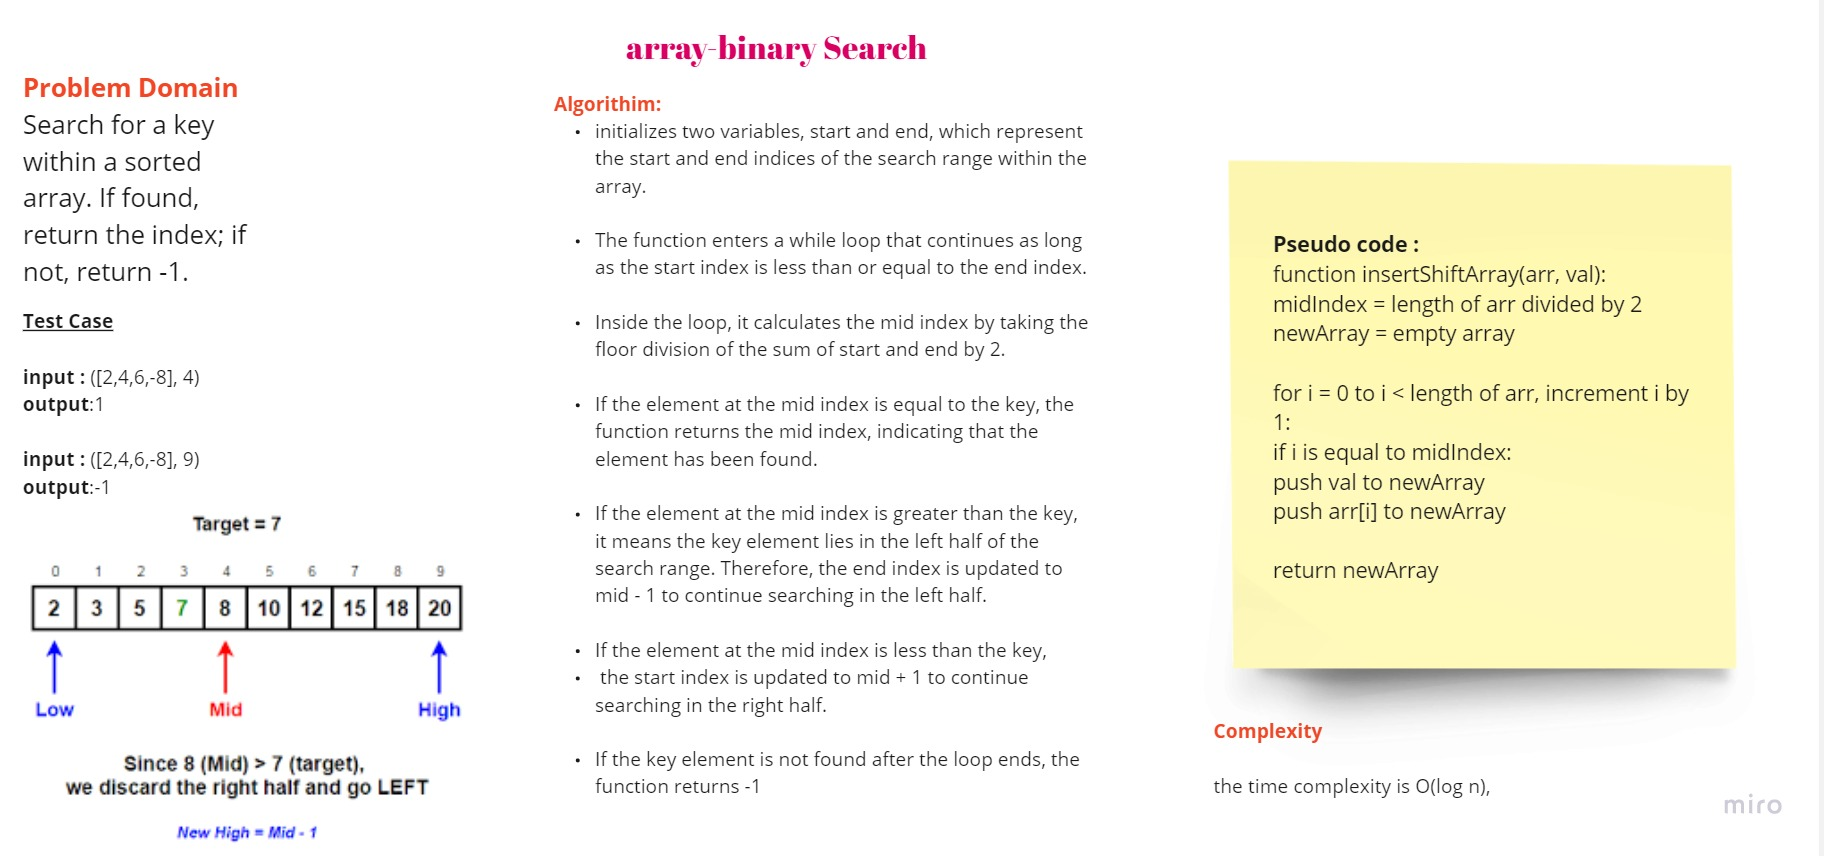
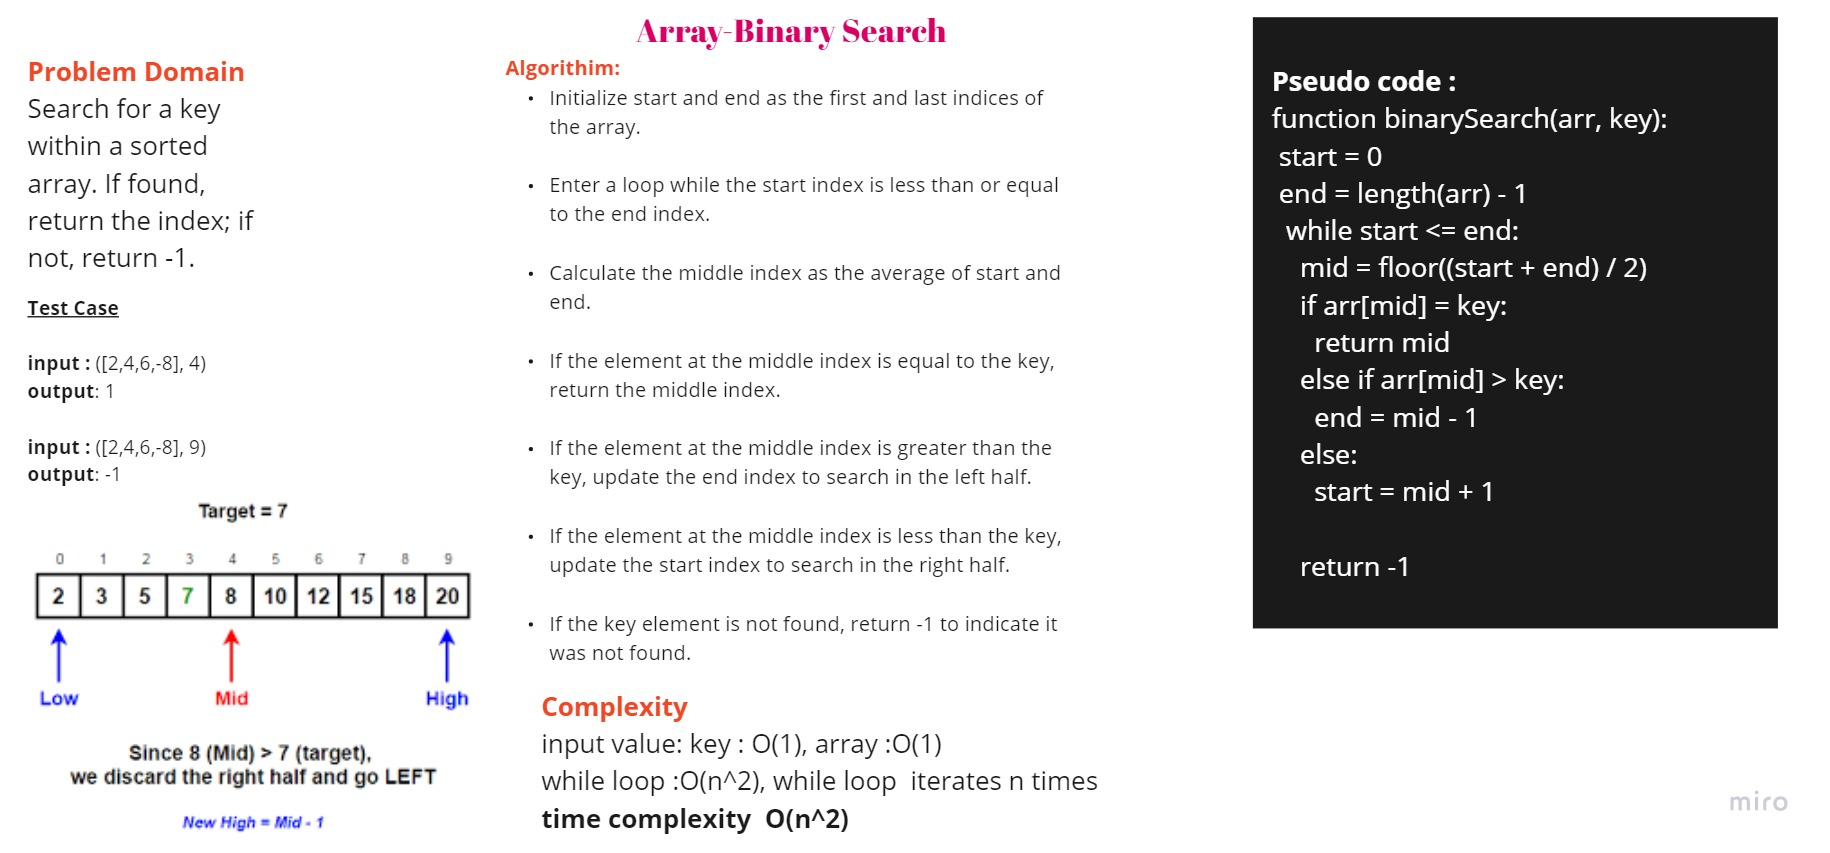
rewrite the algorithim and clculate time complixity

diff --git a/javascript/code-challenges/array-binary-search/readme.md b/javascript/code-challenges/array-binary-search/readme.md
@@ -10,21 +10,19 @@ function called 'BinarySearch' which takes in 2 parameters: a sorted array and t
 
 ## Approach and Efficiency
 
-1- The approach used in this solution is as follows:
-initializes two variables, start and end, which represent the start and end indices of the search range within the array.
+1- Initialize start and end as the first and last indices of the array.
 
-2- The function enters a while loop that continues as long as the start index is less than or equal to the end index.
+2- Enter a loop while the start index is less than or equal to the end index.
 
-3- Inside the loop, it calculates the mid index by taking the floor division of the sum of start and end by 2.
+3- Calculate the middle index as the average of start and end.
 
-4- If the element at the mid index is equal to the key, the function returns the mid index, indicating that the element has been found.
+4- If the element at the middle index is equal to the key, return the middle index.
 
-5- If the element at the mid index is greater than the key, it means the key element lies in the left half of the search range. Therefore, the end index is updated to mid - 1 to continue searching in the left half.
+5- If the element at the middle index is greater than the key, update the end index to search in the left half.
 
-6- If the element at the mid index is less than the key,
-the start index is updated to mid + 1 to continue searching in the right half.
+6- If the element at the middle index is less than the key, update the start index to search in the right half.
 
-7- If the key element is not found after the loop ends, the function returns -1
+7- If the key element is not found, return -1 to indicate it was not found.
 
 ## Solution
 
